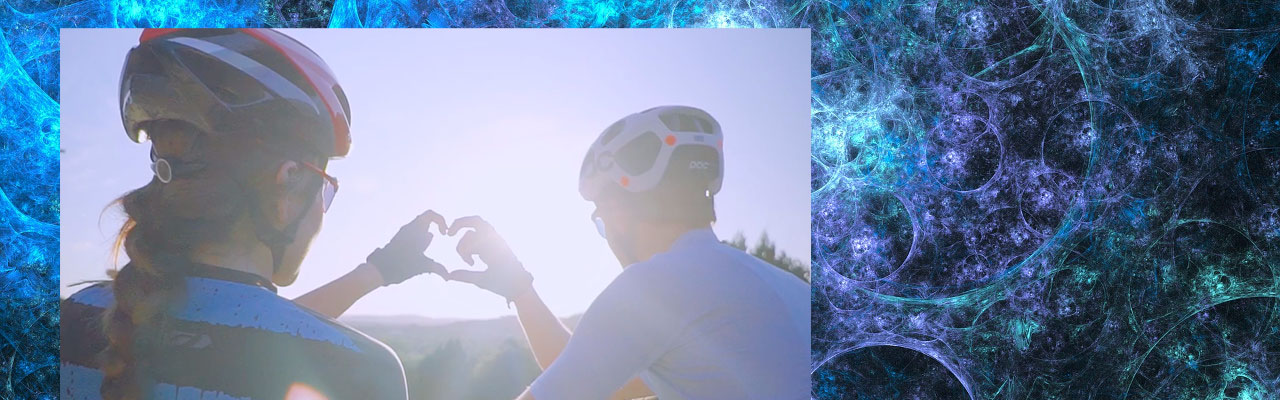
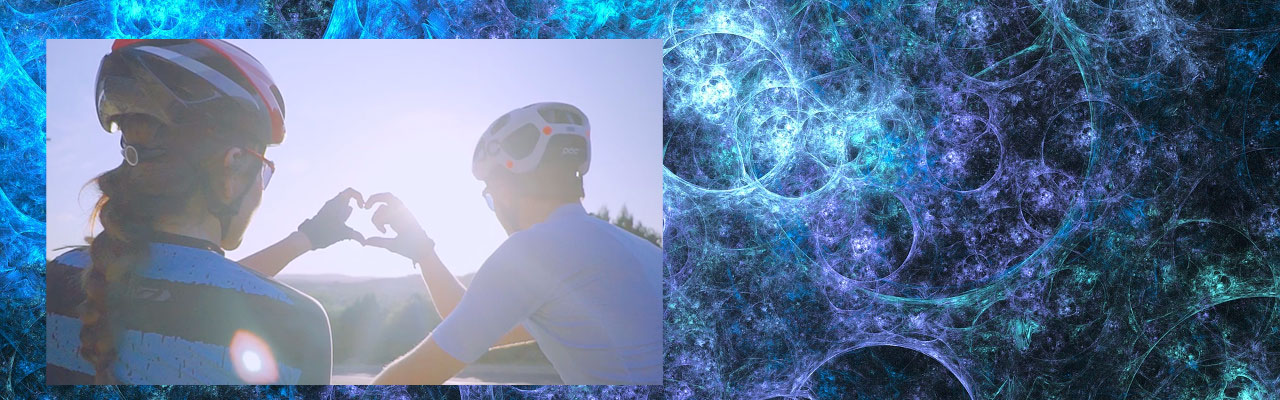
Photo adjusting.

diff --git a/content/home/slider.md b/content/home/slider.md
@@ -18,7 +18,7 @@ height = "375px"
 
 [[item]] #1
   #title = "Right"
-  content = "<br><br>&emspLife is about climbing hills."
+  content = "<br><br>    Life is about climbing hills."
   align = "right"
 
   overlay_color = "#555"  # An HTML color value.
@@ -65,7 +65,7 @@ height = "375px"
 [[item]] #5
   #title = "Left"
   content = "La Frontera"
-  align = "left"
+  align = "right"
 
   overlay_color = "#555"  # An HTML color value.
   overlay_img = "bubbles-wide4.JPG"  # Image path relative to your `static/img/` folder.
